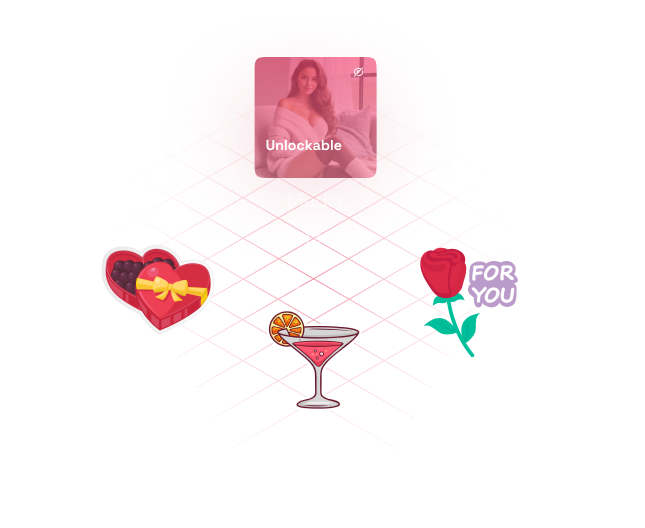
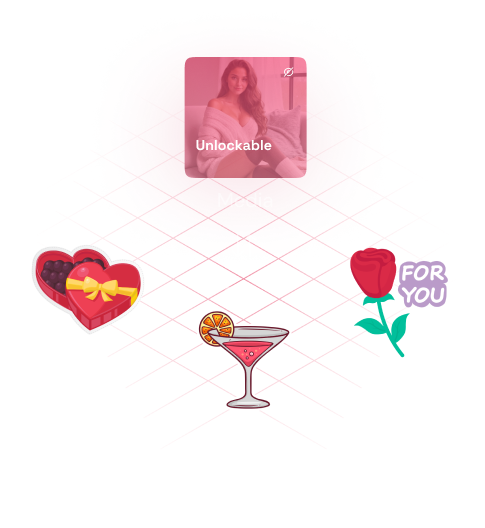
adjusted images padding

diff --git a/src/app/page.tsx b/src/app/page.tsx
@@ -44,6 +44,7 @@ export default function Home() {
             alt="social"
             width={1382}
             height={782}
+            className="object-contain h-full w-full"
           />
         }
       />
@@ -64,6 +65,7 @@ export default function Home() {
             alt="gift"
             width={1289}
             height={1056}
+            className="object-contain h-full w-full"
           />
         }
       />
@@ -91,6 +93,7 @@ export default function Home() {
             alt="AIonoff"
             width={1289}
             height={1066}
+            className="object-contain h-full w-full"
           />
         }
       />

diff --git a/src/components/buttons/BeginButton.tsx b/src/components/buttons/BeginButton.tsx
@@ -4,7 +4,7 @@ import AIIcon from '../icons/AIIcon';
 function BeginButton() {
   return (
     <div className="relative">
-      <button className="primary-button-bg h-[56px] w-fit px-[44px] py-4 rounded-full font-spacegrotesk text-[18px] flex items-center gap-2 relative z-20">
+      <button className="primary-button-bg h-[56px] w-fit px-[44px] py-4 rounded-full font-spacegrotesk text-[18px] leading-[24px] flex items-center gap-2 relative z-20">
         Begin <AIIcon />
       </button>
       <div className="w-full h-[56px] opacity-90 light-blur blur-xl absolute z-10 top-[20px] scale-[0.8]"></div>
